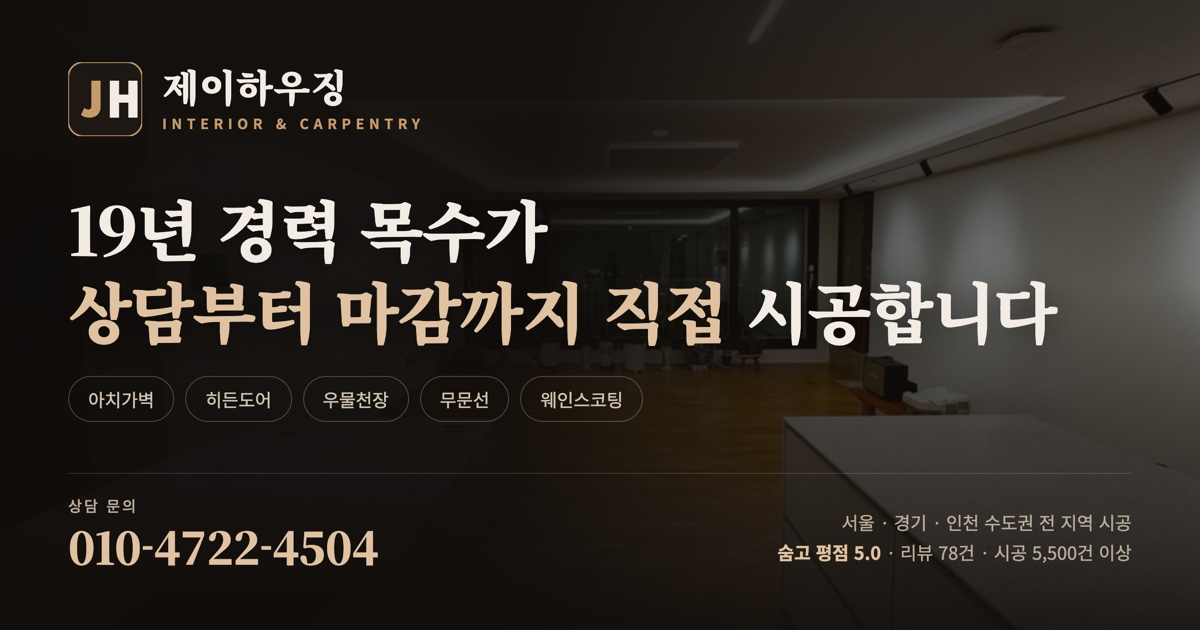
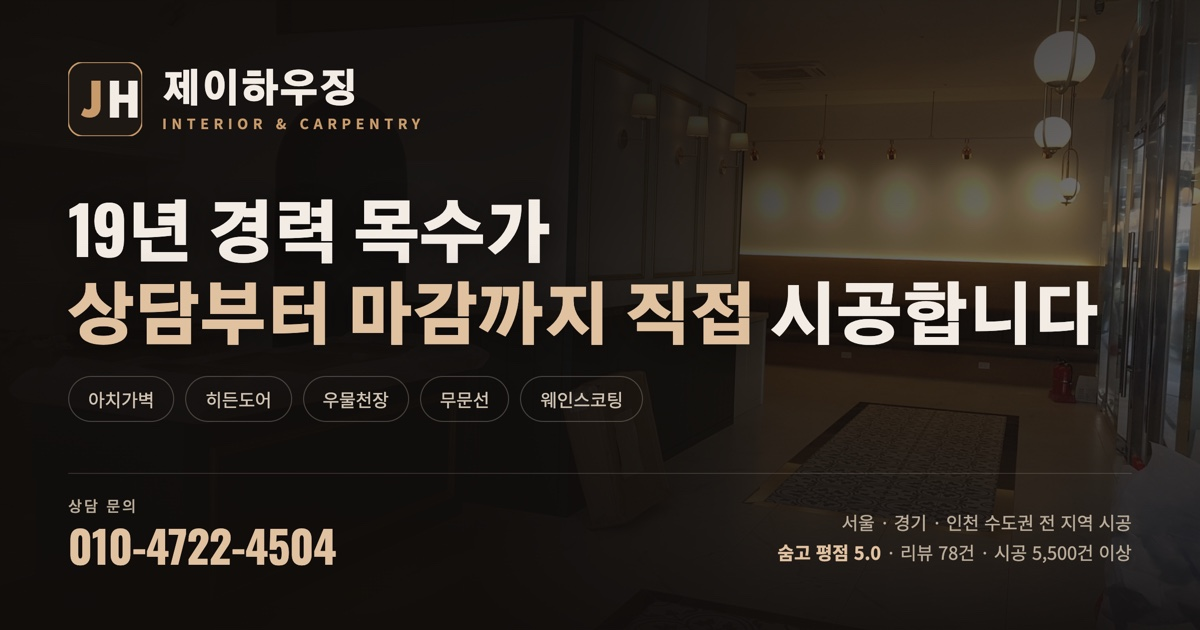
feat: 숨고 포트폴리오 사진 확보 및 타이포그래피 교체
사진
- 숨고 프로필을 렌더링해 포트폴리오·미디어 사진 13장 추가 확보(최대 4032px)
- 90도 회전 저장된 사진 5장 방향 보정
- 원본 전체를 assets/source/에 보관(출처 URL 목록 포함)
- 히어로를 카페 상업공간 시공 사진으로 교체
- 시공 사례를 아치가벽·템바보드 루버·무문선 히든도어 등 대표 작업으로 재구성
- 비포애프터 태그를 시공 중·완성으로 변경(동일 현장 여부가 확인되지 않아 과장 표현 제거)

타이포그래피
- 레퍼런스 사이트 실사용 폰트 조사(Blackbird는 Oswald, BAMO는 GT Super 등)
- 목공·시공업 계열이 쓰는 산업적 서체를 따라 Oswald + Gothic A1로 교체
- 기존 명조 계열(Noto Serif KR) 제거

Claude-Session: https://claude.ai/code/session_01RRmvT5nVftYqMBhPawo7cq

diff --git a/index.html b/index.html
@@ -81,14 +81,14 @@
 </script>
 <link rel="preconnect" href="https://fonts.googleapis.com" />
 <link rel="preconnect" href="https://fonts.gstatic.com" crossorigin />
-<link href="https://fonts.googleapis.com/css2?family=Noto+Sans+KR:wght@300;400;500;700&family=Noto+Serif+KR:wght@600;900&display=swap" rel="stylesheet" />
+<link href="https://fonts.googleapis.com/css2?family=Gothic+A1:wght@500;700;800;900&family=Oswald:wght@500;600;700&family=Noto+Sans+KR:wght@300;400;500;700&display=swap" rel="stylesheet" />
 <style>
   :root{
     --bg:#161311; --bg2:#1c1815; --panel:#221d19;
     --wood:#c89a6a; --wood-light:#e0c1a0; --ink:#f2ece5; --ink-dim:#b9ab98;
     --line:rgba(233,220,205,.12); --line-soft:rgba(233,220,205,.07);
     --ease:cubic-bezier(0.16,1,0.3,1);
-    --serif:"Noto Serif KR",Georgia,"Times New Roman",serif;
+    --display:"Oswald","Gothic A1","Noto Sans KR","Apple SD Gothic Neo",sans-serif;
     --sans:"Noto Sans KR","Apple SD Gothic Neo","Malgun Gothic",sans-serif;
     --gut:clamp(20px,5vw,72px);
   }
@@ -111,8 +111,8 @@
 
   /* ---------- TYPE ---------- */
   .eyebrow{font-family:var(--sans);font-size:.68rem;font-weight:700;letter-spacing:.3em;text-transform:uppercase;color:var(--wood)}
-  h2{font-family:var(--serif);font-weight:900;font-size:clamp(1.9rem,4vw,3.1rem);line-height:1.22;letter-spacing:-.01em}
-  h3{font-family:var(--serif);font-weight:600}
+  h2{font-family:var(--display);font-weight:900;font-size:clamp(1.9rem,4vw,3.1rem);line-height:1.22;letter-spacing:-.01em}
+  h3{font-family:var(--display);font-weight:600}
   .rule{height:1px;background:var(--line);border:0;width:100%}
 
   /* ---------- NAV ---------- */
@@ -120,7 +120,7 @@
     transition:background .5s var(--ease),border-color .5s var(--ease),backdrop-filter .5s var(--ease)}
   header.solid{background:rgba(18,15,13,.92);backdrop-filter:blur(14px);border-bottom-color:var(--line-soft)}
   .nav{display:flex;align-items:center;justify-content:space-between;height:78px;gap:20px}
-  .logo{font-family:var(--serif);font-weight:900;font-size:1.15rem;letter-spacing:.02em;color:var(--ink);flex:none;line-height:1.2}
+  .logo{font-family:var(--display);font-weight:900;font-size:1.15rem;letter-spacing:.02em;color:var(--ink);flex:none;line-height:1.2}
   .logo small{display:block;font-family:var(--sans);font-size:.55rem;font-weight:700;color:var(--wood);letter-spacing:.3em;margin-top:3px}
   .nav ul{display:flex;gap:clamp(18px,2.2vw,34px);list-style:none;font-size:.82rem;letter-spacing:.06em;color:var(--ink-dim)}
   .nav ul a{position:relative;padding-bottom:3px;transition:color .3s var(--ease)}
@@ -141,7 +141,7 @@
 
   /* ---------- HERO ---------- */
   .hero{position:relative;isolation:isolate;min-height:100svh;display:flex;flex-direction:column;justify-content:flex-end;padding:140px 0 clamp(36px,5vh,64px);overflow:hidden}
-  .hero-bg{position:absolute;inset:0;z-index:-2;background:url('assets/p3.jpg') center 55%/cover no-repeat;transform:scale(1.06);animation:heroZoom 2.4s var(--ease) both}
+  .hero-bg{position:absolute;inset:0;z-index:-2;background:url('assets/hero-cafe.jpg') center 46%/cover no-repeat;transform:scale(1.06);animation:heroZoom 2.4s var(--ease) both}
   @keyframes heroZoom{from{transform:scale(1.16)}to{transform:scale(1.06)}}
   .hero-bg::after{content:"";position:absolute;inset:0;
     background:
@@ -149,7 +149,7 @@
       linear-gradient(180deg, rgba(16,13,11,.78) 0%, rgba(16,13,11,.22) 38%, rgba(22,19,17,.97) 100%)}
   .hero .badge{display:inline-flex;align-items:center;gap:10px;font-size:.66rem;letter-spacing:.28em;font-weight:700;color:var(--wood-light);text-transform:uppercase}
   .hero .badge::before{content:"";width:44px;height:1px;background:var(--wood)}
-  .hero h1{font-family:var(--serif);font-weight:900;font-size:clamp(2.1rem,8vw,6.5rem);line-height:1.08;letter-spacing:-.03em;margin-top:26px;text-shadow:0 4px 40px rgba(0,0,0,.55)}
+  .hero h1{font-family:var(--display);font-weight:900;font-size:clamp(2.1rem,8vw,6.5rem);line-height:1.08;letter-spacing:-.03em;margin-top:26px;text-shadow:0 4px 40px rgba(0,0,0,.55)}
   .hero h1 em{font-style:normal;color:var(--wood-light)}
   .hero h1 .ln{display:block;overflow:hidden;padding-bottom:.06em;margin-bottom:-.06em}
   .hero h1 .ln i{display:block;font-style:normal;transform:translateY(105%);animation:lineUp 1.1s var(--ease) forwards}
@@ -173,13 +173,13 @@
   .stat{padding:26px 20px 4px 0;border-right:1px solid var(--line-soft)}
   .stat + .stat{padding-left:24px}
   .stat:last-child{border-right:0;padding-right:0}
-  .stat b{display:block;font-family:var(--serif);font-weight:900;font-size:clamp(1.7rem,3.2vw,2.6rem);color:var(--wood-light);line-height:1.1;letter-spacing:-.02em}
+  .stat b{display:block;font-family:var(--display);font-weight:900;font-size:clamp(1.7rem,3.2vw,2.6rem);color:var(--wood-light);line-height:1.1;letter-spacing:-.02em}
   .stat span{display:block;font-size:.75rem;letter-spacing:.14em;color:var(--ink-dim);margin-top:8px}
 
   /* ---------- SECTION SHELL ---------- */
   section{padding:clamp(88px,13vw,168px) 0;position:relative}
   .sec-head{position:relative;grid-column:1/5;align-self:start}
-  .sec-num{position:absolute;top:-.42em;right:0;font-family:var(--serif);font-weight:900;font-size:clamp(5rem,9vw,8rem);line-height:1;
+  .sec-num{position:absolute;top:-.42em;right:0;font-family:var(--display);font-weight:900;font-size:clamp(5rem,9vw,8rem);line-height:1;
     color:transparent;-webkit-text-stroke:1px rgba(200,154,106,.26);pointer-events:none;user-select:none;z-index:-1}
   .sec-head .eyebrow{margin-bottom:20px}
   .sec-head h2{margin-bottom:22px}
@@ -190,15 +190,15 @@
   .svc{list-style:none;border-top:1px solid var(--line)}
   .svc li{border-bottom:1px solid var(--line-soft);padding:26px 0;display:grid;grid-template-columns:auto 1fr;gap:8px 26px;align-items:baseline;transition:background .5s var(--ease),padding-left .5s var(--ease)}
   .svc li:hover{background:rgba(200,154,106,.05);padding-left:14px}
-  .svc .no{font-family:var(--serif);font-size:.78rem;color:var(--wood);letter-spacing:.1em}
+  .svc .no{font-family:var(--display);font-size:.78rem;color:var(--wood);letter-spacing:.1em}
   .svc h3{font-size:clamp(1.05rem,1.6vw,1.35rem);color:var(--ink)}
   .svc p{grid-column:2;font-size:.9rem;color:var(--ink-dim);max-width:52ch;margin-top:4px}
 
   /* ---------- PROCESS ---------- */
   .steps{list-style:none;border-top:1px solid var(--line)}
   .steps li{display:grid;grid-template-columns:70px 1fr;gap:20px;padding:24px 0;border-bottom:1px solid var(--line-soft)}
-  .steps .n{font-family:var(--serif);font-weight:900;font-size:1.5rem;color:transparent;-webkit-text-stroke:1px rgba(200,154,106,.6);line-height:1}
-  .steps b{display:block;font-family:var(--serif);font-weight:600;font-size:1.08rem;margin-bottom:4px}
+  .steps .n{font-family:var(--display);font-weight:900;font-size:1.5rem;color:transparent;-webkit-text-stroke:1px rgba(200,154,106,.6);line-height:1}
+  .steps b{display:block;font-family:var(--display);font-weight:600;font-size:1.08rem;margin-bottom:4px}
   .steps span{font-size:.9rem;color:var(--ink-dim)}
 
   /* ---------- BEFORE / AFTER ---------- */
@@ -217,7 +217,7 @@
   .ba-item .tag{position:absolute;top:0;left:0;font-size:.62rem;font-weight:700;letter-spacing:.26em;padding:9px 16px;background:rgba(18,15,13,.86);color:var(--wood-light)}
   .ba-item.after .tag{background:var(--wood);color:#1a1411}
   .ba-cap{grid-column:1/-1;display:grid;grid-template-columns:repeat(12,1fr);gap:clamp(14px,2vw,28px);padding-top:20px;border-top:1px solid var(--line-soft);margin-top:6px}
-  .ba-cap b{grid-column:1/5;font-family:var(--serif);font-weight:600;font-size:1.15rem;color:var(--wood-light)}
+  .ba-cap b{grid-column:1/5;font-family:var(--display);font-weight:600;font-size:1.15rem;color:var(--wood-light)}
   .ba-cap span{grid-column:6/12;font-size:.9rem;color:var(--ink-dim)}
 
   /* ---------- PORTFOLIO ---------- */
@@ -240,16 +240,16 @@
   /* ---------- REVIEWS ---------- */
   .quotes{display:grid;gap:clamp(28px,4vw,48px)}
   blockquote{border-top:1px solid var(--line);padding-top:24px}
-  blockquote p{font-family:var(--serif);font-weight:600;font-size:clamp(1.05rem,1.7vw,1.45rem);line-height:1.6;color:var(--ink)}
+  blockquote p{font-family:var(--display);font-weight:600;font-size:clamp(1.05rem,1.7vw,1.45rem);line-height:1.6;color:var(--ink)}
   blockquote footer{margin-top:16px;font-size:.7rem;letter-spacing:.22em;color:var(--wood)}
 
   /* ---------- CONTACT ---------- */
   .contact{background:var(--bg2);border-top:1px solid var(--line-soft)}
   .contact .who{display:flex;gap:22px;align-items:center;margin-bottom:28px}
   .contact .who img{width:84px;height:84px;border-radius:50%;object-fit:cover;border:1px solid var(--wood);flex:none}
-  .contact .who b{font-family:var(--serif);font-weight:600;font-size:1.05rem;display:block}
+  .contact .who b{font-family:var(--display);font-weight:600;font-size:1.05rem;display:block}
   .contact .who span{font-size:.8rem;color:var(--ink-dim)}
-  .tel{font-family:var(--serif);font-weight:900;font-size:clamp(1.8rem,3.4vw,2.9rem);color:var(--wood-light);letter-spacing:-.01em;line-height:1.15;white-space:nowrap}
+  .tel{font-family:var(--display);font-weight:900;font-size:clamp(1.8rem,3.4vw,2.9rem);color:var(--wood-light);letter-spacing:-.01em;line-height:1.15;white-space:nowrap}
   .tel a{transition:color .35s var(--ease)}
   .tel a:hover{color:var(--wood)}
   .info{list-style:none;border-top:1px solid var(--line)}
@@ -463,21 +463,21 @@
     <div class="ba">
 
       <div class="ba-row">
-        <figure class="ba-item b mask reveal"><span class="tag">BEFORE</span><img src="assets/p6.jpg" alt="우물천장 골조를 세우는 작업 중 현장" loading="lazy" /></figure>
-        <figure class="ba-item after a mask reveal st2"><span class="tag">AFTER</span><img src="assets/p3.jpg" alt="간접조명이 들어간 우물천장 거실 완성" loading="lazy" /></figure>
-        <div class="ba-cap reveal st3"><b>거실 우물천장</b><span>천장 각재 골조를 잡고 간접조명 라인까지 마감했습니다.</span></div>
+        <figure class="ba-item b mask reveal"><span class="tag">시공 중</span><img src="assets/arch-frame.jpg" alt="아치 개구부 골조를 세우는 작업 중 현장" loading="lazy" /></figure>
+        <figure class="ba-item after a mask reveal st2"><span class="tag">완성</span><img src="assets/arch.jpg" alt="곡선 라인을 다듬어 마감한 아치가벽" loading="lazy" /></figure>
+        <div class="ba-cap reveal st3"><b>아치가벽</b><span>곡면 골조를 세우고 라인을 다듬어 개구부를 완성합니다.</span></div>
       </div>
 
       <div class="ba-row">
-        <figure class="ba-item b mask reveal"><span class="tag">BEFORE</span><img src="assets/p1.jpg" alt="주방과 복도 천장 목공 골조 작업 중 현장" loading="lazy" /></figure>
-        <figure class="ba-item after a mask reveal st2"><span class="tag">AFTER</span><img src="assets/p7.jpg" alt="주방과 복도 목공 마감 완성" loading="lazy" /></figure>
-        <div class="ba-cap reveal st3"><b>주방 · 복도</b><span>가벽과 천장 구조를 세운 뒤 문선과 벽면 라인을 정리했습니다.</span></div>
+        <figure class="ba-item b mask reveal"><span class="tag">시공 중</span><img src="assets/p1.jpg" alt="천장 목공과 가벽 골조 작업 중 현장" loading="lazy" /></figure>
+        <figure class="ba-item after a mask reveal st2"><span class="tag">완성</span><img src="assets/p7.jpg" alt="무문선 히든도어로 마감한 복도" loading="lazy" /></figure>
+        <div class="ba-cap reveal st3"><b>가벽 · 무문선 마감</b><span>가벽과 천장 구조를 세운 뒤 문선 없이 벽면 라인을 정리합니다.</span></div>
       </div>
 
-      <div class="ba-row tallrow">
-        <figure class="ba-item b mask reveal"><span class="tag">BEFORE</span><img src="assets/p9.jpg" alt="침실 벽체 석고 마감 작업 중 현장" loading="lazy" /></figure>
-        <figure class="ba-item after tall a mask reveal st2"><span class="tag">AFTER</span><img src="assets/p2.jpg" alt="천장 단내림과 도장으로 마감한 침실" loading="lazy" /></figure>
-        <div class="ba-cap reveal st3"><b>침실 벽체 · 천장 단내림</b><span>석고 면을 평활하게 잡아 도장 마감의 완성도를 높였습니다.</span></div>
+      <div class="ba-row">
+        <figure class="ba-item b mask reveal"><span class="tag">시공 중</span><img src="assets/insulation.jpg" alt="벽면 단열재와 각재 골조를 시공한 현장" loading="lazy" /></figure>
+        <figure class="ba-item after a mask reveal st2"><span class="tag">완성</span><img src="assets/tv-louver.jpg" alt="TV 매립과 템바보드 루버로 마감한 벽체" loading="lazy" /></figure>
+        <div class="ba-cap reveal st3"><b>벽체 · TV 매립</b><span>단열과 각재 골조부터 잡아 매립과 루버 마감까지 진행합니다.</span></div>
       </div>
 
     </div>
@@ -498,28 +498,28 @@
   <div class="wrap">
     <div class="pf">
       <figure class="big reveal">
-        <a class="shot mask reveal" href="#before-after"><img src="assets/p3.jpg" alt="우물천장 간접조명 마감" loading="lazy" /></a>
-        <figcaption><span>우물천장 · 간접조명 마감</span><em>Living</em></figcaption>
+        <a class="shot mask reveal" href="#before-after"><img src="assets/hero-cafe.jpg" alt="아치가벽과 웨인스코팅 몰딩으로 마감한 카페 상업공간" loading="lazy" /></a>
+        <figcaption><span>카페 아치가벽 · 웨인스코팅 몰딩</span><em>Commercial</em></figcaption>
       </figure>
       <figure class="half reveal">
-        <a class="shot mask reveal" href="#before-after"><img src="assets/p7.jpg" alt="주방 복도 목공 마감" loading="lazy" /></a>
-        <figcaption><span>주방 · 복도 목공 마감</span><em>Kitchen</em></figcaption>
+        <a class="shot mask reveal" href="#before-after"><img src="assets/arch.jpg" alt="아치 개구부 두 곳을 낸 아치가벽 완성" loading="lazy" /></a>
+        <figcaption><span>아치가벽 · 아치 개구부</span><em>Arch</em></figcaption>
       </figure>
       <figure class="half reveal st2">
-        <a class="shot mask reveal st2" href="#before-after"><img src="assets/p1.jpg" alt="천장 목공 가벽 골조" loading="lazy" /></a>
-        <figcaption><span>천장 목공 · 가벽 골조</span><em>Framing</em></figcaption>
+        <a class="shot mask reveal st2" href="#before-after"><img src="assets/tv-louver.jpg" alt="TV 매립과 템바보드 루버 간접조명 벽체" loading="lazy" /></a>
+        <figcaption><span>TV 매립 · 템바보드 루버</span><em>Living</em></figcaption>
       </figure>
       <figure class="two-third reveal">
-        <a class="shot mask reveal" href="#before-after"><img src="assets/p6.jpg" alt="우물천장 골조 작업" loading="lazy" /></a>
-        <figcaption><span>우물천장 골조 작업</span><em>Ceiling</em></figcaption>
+        <a class="shot mask reveal" href="#before-after"><img src="assets/p3.jpg" alt="간접조명이 들어간 우물천장 거실" loading="lazy" /></a>
+        <figcaption><span>우물천장 · 간접조명 마감</span><em>Ceiling</em></figcaption>
       </figure>
       <figure class="third reveal st2">
-        <a class="shot mask reveal st2" href="#before-after"><img src="assets/p2.jpg" alt="천장 단내림 도장 마감" loading="lazy" style="object-position:center 30%" /></a>
-        <figcaption><span>천장 단내림 · 도장 마감</span><em>Bedroom</em></figcaption>
+        <a class="shot mask reveal st2" href="#before-after"><img src="assets/ceiling-living.jpg" alt="우물천장 간접조명으로 마감한 거실과 주방" loading="lazy" /></a>
+        <figcaption><span>우물천장 · 거실 마감</span><em>Living</em></figcaption>
       </figure>
       <figure class="big reveal">
-        <a class="shot mask reveal" href="#before-after"><img src="assets/p9.jpg" alt="벽체 석고 마감 작업" loading="lazy" /></a>
-        <figcaption><span>벽체 석고 마감 작업</span><em>Finishing</em></figcaption>
+        <a class="shot mask reveal" href="#before-after"><img src="assets/p7.jpg" alt="무문선 히든도어와 복도 목공 마감" loading="lazy" /></a>
+        <figcaption><span>무문선 히든도어 · 복도 목공</span><em>Corridor</em></figcaption>
       </figure>
     </div>
   </div>

diff --git a/assets/source/og-template.html b/assets/source/og-template.html
@@ -1,0 +1,57 @@
+<!doctype html>
+<html lang="ko">
+<head>
+<meta charset="utf-8" />
+<link href="https://fonts.googleapis.com/css2?family=Gothic+A1:wght@700;900&family=Oswald:wght@500;600;700&family=Noto+Sans+KR:wght@400;500;700&display=swap" rel="stylesheet" />
+<style>
+  *{margin:0;padding:0;box-sizing:border-box}
+  body{width:1200px;height:630px;overflow:hidden;background:#161311;color:#f2ece5;
+       font-family:"Noto Sans KR",sans-serif;position:relative}
+  .photo{position:absolute;inset:0;background:url('PHOTO') center 58%/cover no-repeat}
+  .photo::after{content:"";position:absolute;inset:0;
+    background:linear-gradient(100deg,rgba(16,13,11,.97) 0%,rgba(16,13,11,.93) 44%,rgba(16,13,11,.55) 68%,rgba(16,13,11,.32) 100%),
+               linear-gradient(180deg,rgba(16,13,11,.55) 0%,rgba(16,13,11,.2) 45%,rgba(16,13,11,.9) 100%)}
+  .inner{position:relative;z-index:2;height:100%;display:flex;flex-direction:column;
+         justify-content:space-between;padding:62px 68px}
+  .brand{display:flex;align-items:center;gap:20px}
+  .mark{width:74px;height:74px;flex:none}
+  .wordmark b{display:block;font-family:"Oswald","Gothic A1",sans-serif;font-weight:900;font-size:38px;letter-spacing:.01em;line-height:1.1}
+  .wordmark span{display:block;font-size:14px;font-weight:700;letter-spacing:.34em;color:#c89a6a;margin-top:7px}
+  h1{font-family:"Oswald","Gothic A1",sans-serif;font-weight:900;font-size:66px;line-height:1.24;letter-spacing:-.025em;
+     text-shadow:0 4px 34px rgba(0,0,0,.6)}
+  h1 em{font-style:normal;color:#e0c1a0}
+  .tags{display:flex;gap:11px;margin-top:26px;flex-wrap:wrap}
+  .tags span{border:1px solid rgba(233,220,205,.26);border-radius:999px;padding:9px 19px;font-size:18px;color:#cfc2b1}
+  .foot{display:flex;align-items:flex-end;justify-content:space-between;gap:30px;
+        border-top:1px solid rgba(233,220,205,.16);padding-top:24px}
+  .tel{font-family:"Oswald","Gothic A1",sans-serif;font-weight:900;font-size:44px;color:#e0c1a0;letter-spacing:-.01em;line-height:1}
+  .tel small{display:block;font-family:"Noto Sans KR",sans-serif;font-size:15px;font-weight:500;
+             letter-spacing:.14em;color:#b9ab98;margin-bottom:11px}
+  .meta{text-align:right;font-size:18px;color:#b9ab98;line-height:1.7}
+  .meta b{color:#e0c1a0;font-weight:700}
+</style>
+</head>
+<body>
+<div class="photo"></div>
+<div class="inner">
+  <div class="brand">
+    <svg class="mark" viewBox="0 0 64 64" aria-hidden="true">
+      <rect width="64" height="64" rx="13" fill="#1e1814" stroke="#c89a6a" stroke-width="1.4"/>
+      <path d="M20 16h8v22.5c0 5.8-3.7 9.5-9.6 9.5-3.1 0-5.6-.9-7.4-2.4l2.9-6c1 .9 2.2 1.4 3.5 1.4 1.7 0 2.6-1 2.6-3.1V16z" fill="#c89a6a"/>
+      <path d="M36 16h8v12h8V16h8v32h-8V35h-8v13h-8V16z" fill="#f2ece5"/>
+    </svg>
+    <div class="wordmark"><b>제이하우징</b><span>INTERIOR &amp; CARPENTRY</span></div>
+  </div>
+
+  <div>
+    <h1>19년 경력 목수가<br /><em>상담부터 마감까지 직접</em> 시공합니다</h1>
+    <div class="tags"><span>아치가벽</span><span>히든도어</span><span>우물천장</span><span>무문선</span><span>웨인스코팅</span></div>
+  </div>
+
+  <div class="foot">
+    <div class="tel"><small>상담 문의</small>010-4722-4504</div>
+    <div class="meta">서울 · 경기 · 인천 수도권 전 지역 시공<br /><b>숨고 평점 5.0</b> · 리뷰 78건 · 시공 5,500건 이상</div>
+  </div>
+</div>
+</body>
+</html>
